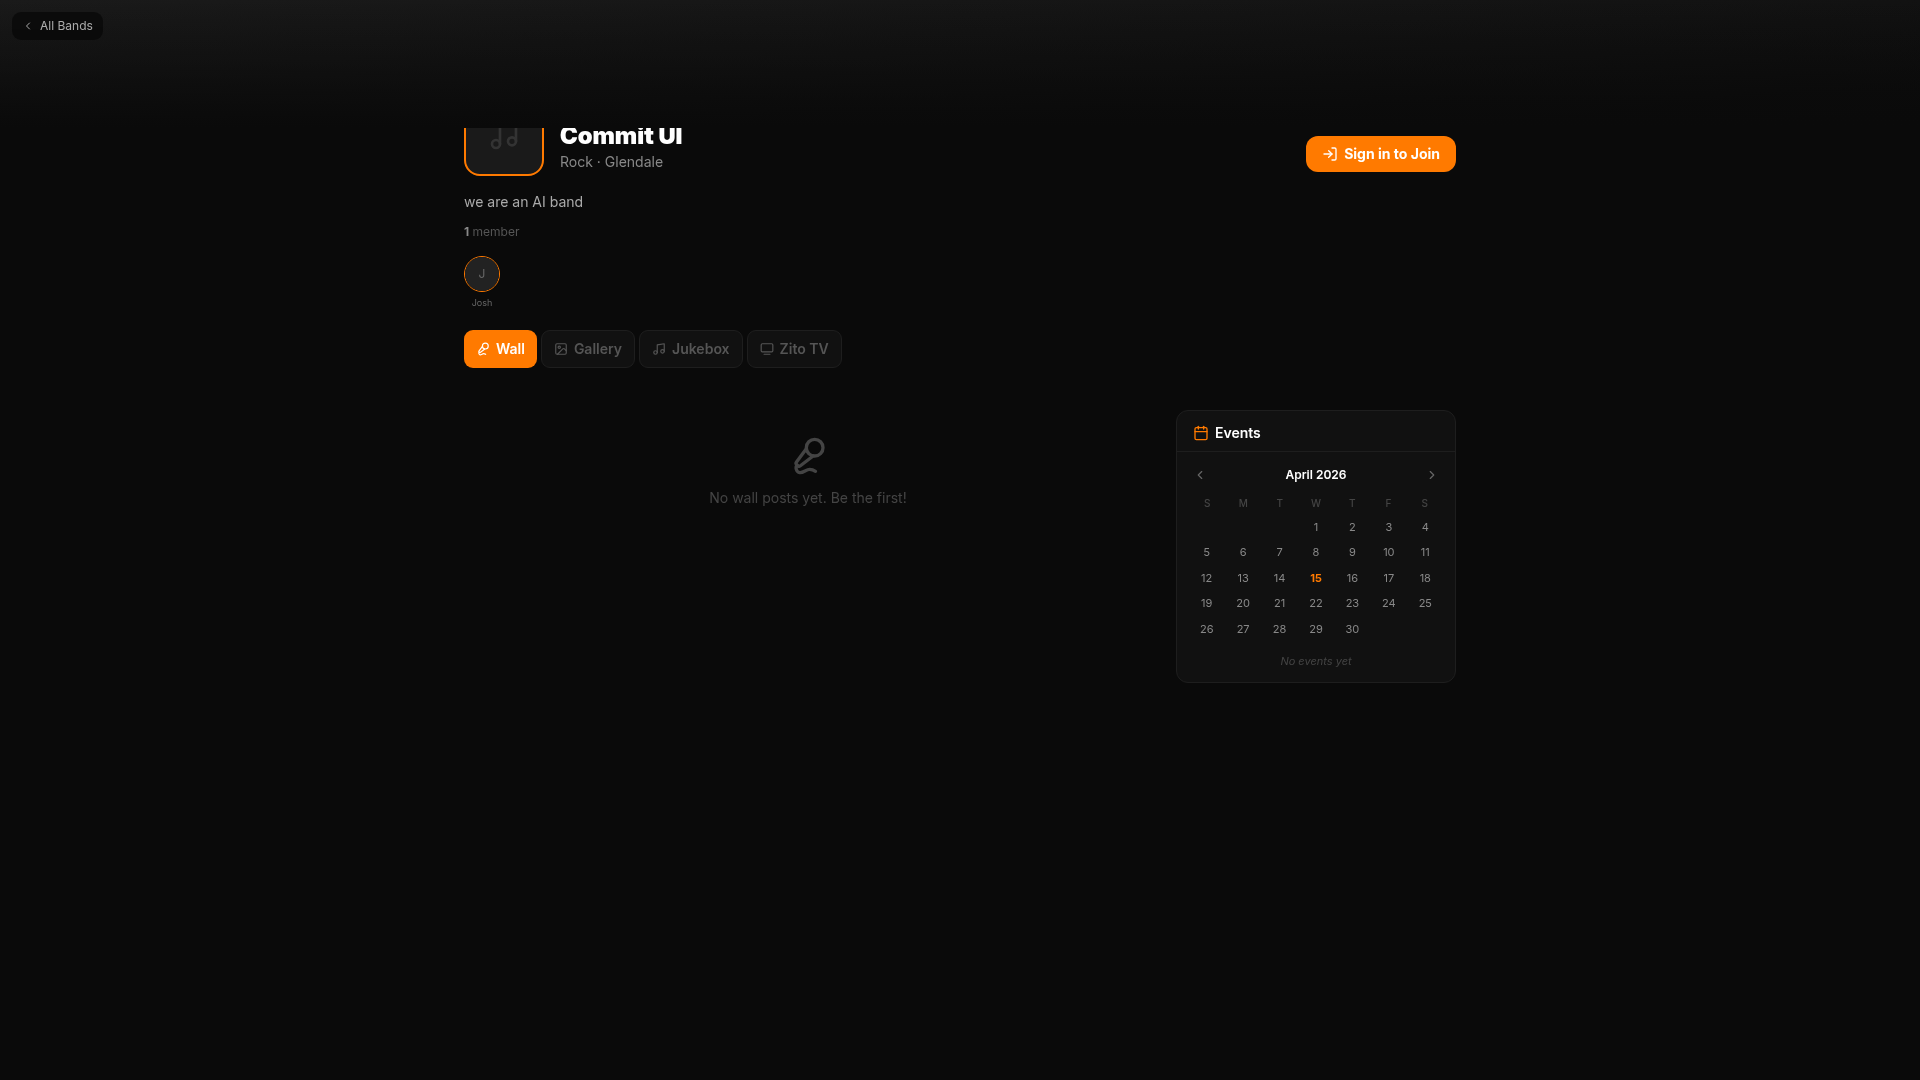
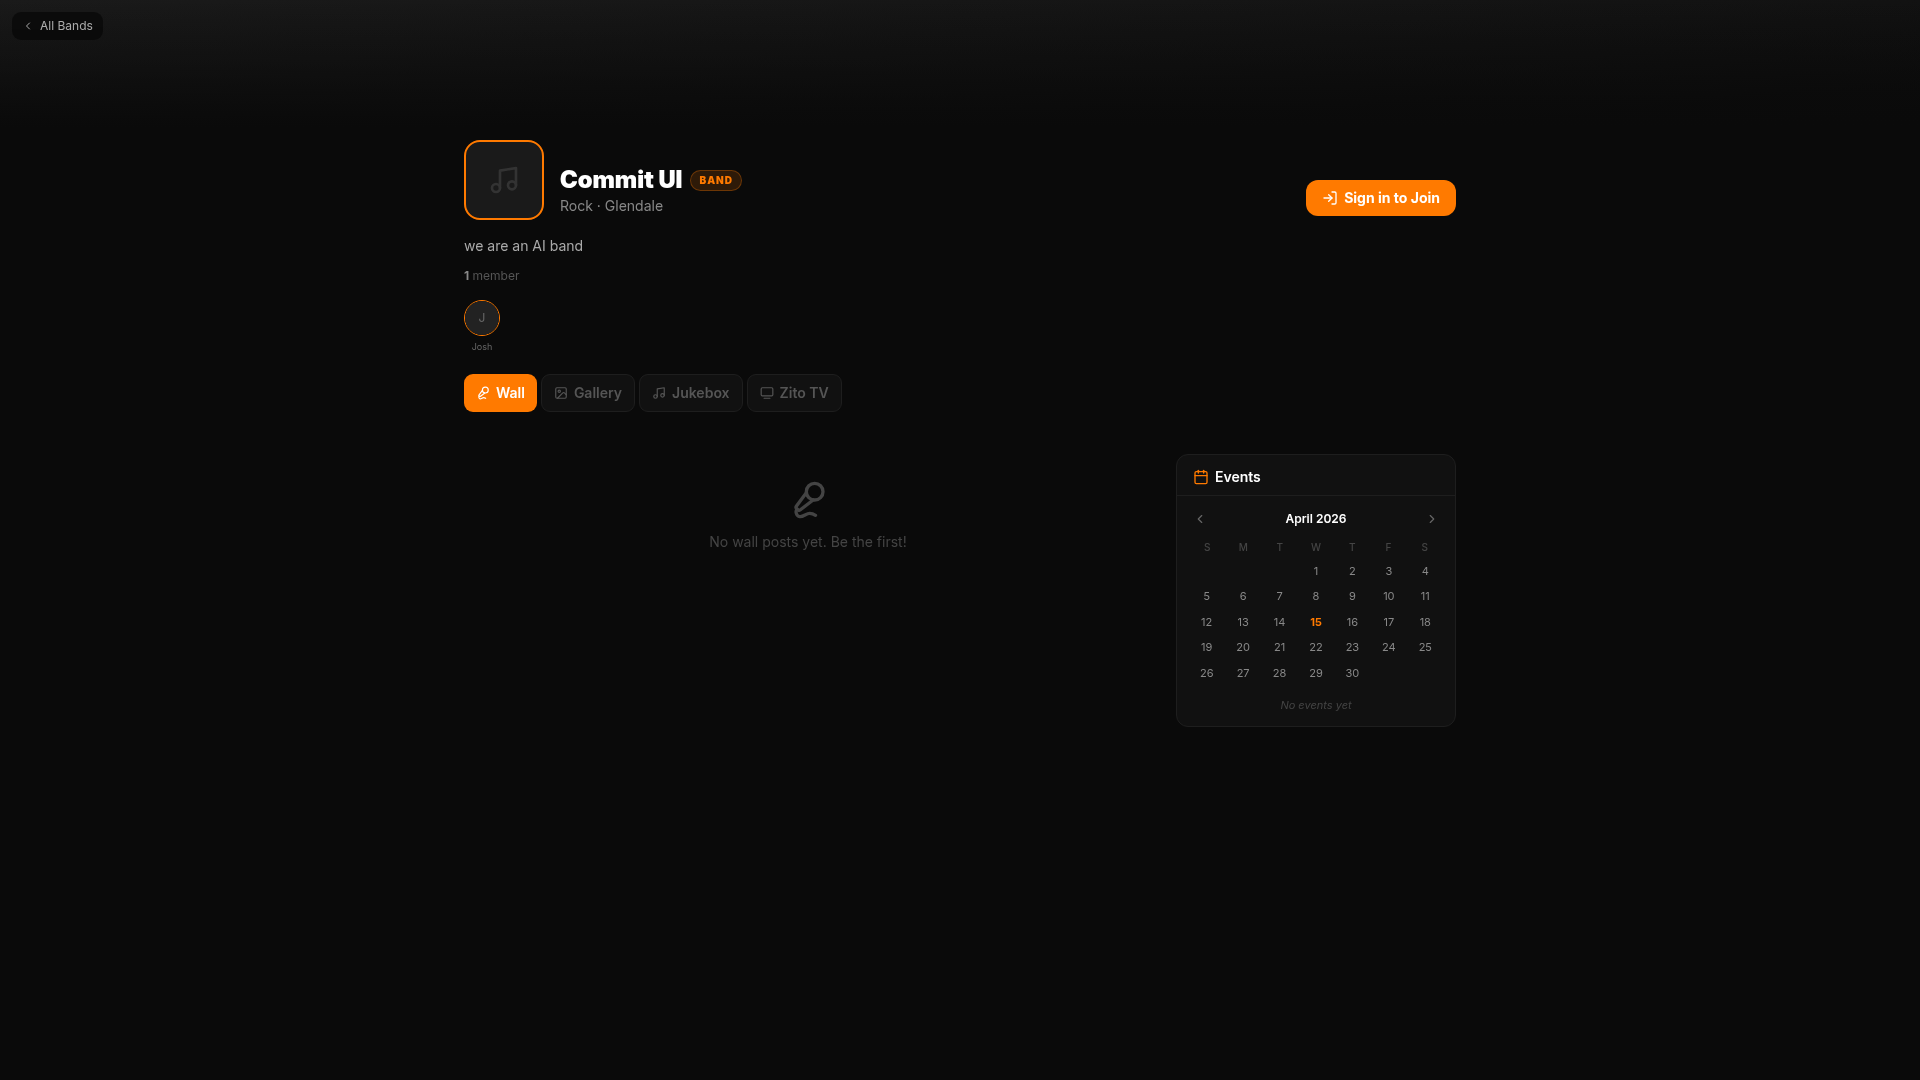
Distinguish between bands and artists and fix display overlap
Add a band or artist type selection to the enrollment form and display a badge on band and artist profiles. Adjust layout to prevent header overlap.

Replit-Commit-Author: Agent
Replit-Commit-Session-Id: 96bca4c1-ad69-4b2a-925e-33f9968eb59d
Replit-Commit-Checkpoint-Type: full_checkpoint
Replit-Commit-Event-Id: f9333cf6-bab2-4fcc-93d9-130623f57306
Replit-Commit-Screenshot-Url: https://storage.googleapis.com/screenshot-production-us-central1/1487f2b9-1e37-4a60-b10e-8a74bd61cf91/96bca4c1-ad69-4b2a-925e-33f9968eb59d/Ar0N1Ho
Replit-Helium-Checkpoint-Created: true

diff --git a/client/src/pages/band-clubhouse.tsx b/client/src/pages/band-clubhouse.tsx
@@ -61,7 +61,7 @@ function timeAgo(d: string | Date) {
 type RosterForm = { name: string; thumbUrl: string; bio: string; role: string };
 const EMPTY_ROSTER: RosterForm = { name: "", thumbUrl: "", bio: "", role: "" };
 
-function RosterSection({ bandId, isAdmin }: { bandId: number; isAdmin: boolean }) {
+function RosterSection({ bandId, isAdmin, bandType }: { bandId: number; isAdmin: boolean; bandType?: string }) {
   const { toast } = useToast();
   const qc = useQueryClient();
   const thumbRef = useRef<HTMLInputElement>(null);
@@ -127,7 +127,7 @@ function RosterSection({ bandId, isAdmin }: { bandId: number; isAdmin: boolean }
   return (
     <div className="mb-5">
       <div className="flex items-center justify-between mb-3">
-        <p className="text-xs font-bold uppercase tracking-widest text-[#555]">Meet the Band</p>
+        <p className="text-xs font-bold uppercase tracking-widest text-[#555]">{bandType === "artist" ? "About the Artist" : "Meet the Band"}</p>
         {isAdmin && roster.length < 8 && (
           <button onClick={openAdd} className="flex items-center gap-1 text-xs font-semibold px-2.5 py-1 rounded-lg text-white" style={{ background: ORANGE }} data-testid="add-roster-btn">
             <UserPlus className="h-3 w-3" /> Add
@@ -1089,7 +1089,7 @@ export default function BandClubbousePage() {
   const [joinInstrument, setJoinInstrument] = useState("");
   const [showJoinModal, setShowJoinModal] = useState(false);
   const [showEditModal, setShowEditModal] = useState(false);
-  const [editForm, setEditForm] = useState({ name: "", bio: "", genre: "", city: "", state: "", avatarUrl: "", bannerUrl: "", instagramUrl: "", tiktokUrl: "", youtubeUrl: "", websiteUrl: "" });
+  const [editForm, setEditForm] = useState({ name: "", bio: "", genre: "", city: "", state: "", avatarUrl: "", bannerUrl: "", instagramUrl: "", tiktokUrl: "", youtubeUrl: "", websiteUrl: "", bandType: "band" });
 
   const { data: band, isLoading } = useQuery<GzBandWithMeta>({
     queryKey: ["/api/bands", bandId],
@@ -1156,6 +1156,7 @@ export default function BandClubbousePage() {
       tiktokUrl: band.tiktokUrl ?? "",
       youtubeUrl: band.youtubeUrl ?? "",
       websiteUrl: band.websiteUrl ?? "",
+      bandType: (band as any).bandType ?? "band",
     });
     setShowEditModal(true);
   }
@@ -1207,7 +1208,7 @@ export default function BandClubbousePage() {
       <div className="max-w-5xl mx-auto px-4">
 
         {/* Band header */}
-        <div className="flex items-end gap-4 -mt-8 mb-4">
+        <div className="flex items-end gap-4 mt-3 mb-4">
           <div className="w-20 h-20 rounded-2xl border-2 overflow-hidden shrink-0" style={{ borderColor: ORANGE, background: "#1a1a1a" }}>
             {band.avatarUrl ? (
               <img src={band.avatarUrl} alt="" className="w-full h-full object-cover" />
@@ -1216,7 +1217,17 @@ export default function BandClubbousePage() {
             )}
           </div>
           <div className="flex-1 pb-1">
-            <h1 className="text-2xl font-black text-white">{band.name}</h1>
+            <div className="flex items-center gap-2 flex-wrap">
+              <h1 className="text-2xl font-black text-white">{band.name}</h1>
+              <span
+                className="text-[10px] font-black tracking-widest px-2 py-0.5 rounded-full uppercase"
+                style={(band as any).bandType === "artist"
+                  ? { background: "rgba(168,85,247,0.15)", color: "#a855f7", border: "1px solid rgba(168,85,247,0.3)" }
+                  : { background: "rgba(255,122,0,0.15)", color: ORANGE, border: `1px solid rgba(255,122,0,0.3)` }}
+              >
+                {(band as any).bandType === "artist" ? "Artist" : "Band"}
+              </span>
+            </div>
             <p className="text-sm text-[#888]">{[band.genre, band.city && band.state ? `${band.city}, ${band.state}` : band.city ?? band.state].filter(Boolean).join(" · ")}</p>
           </div>
           <div className="pb-1 flex gap-2 items-center">
@@ -1270,7 +1281,7 @@ export default function BandClubbousePage() {
         )}
 
         {/* Band Roster */}
-        <RosterSection bandId={bandId} isAdmin={isAdmin} />
+        <RosterSection bandId={bandId} isAdmin={isAdmin} bandType={(band as any).bandType} />
 
         {/* Two-column: main content + calendar sidebar */}
         <div className="flex flex-col lg:grid lg:grid-cols-[1fr_280px] gap-6 pb-20">
@@ -1333,12 +1344,27 @@ export default function BandClubbousePage() {
         <div className="fixed inset-0 z-50 bg-black/80 flex items-end sm:items-center justify-center p-4" onClick={() => setShowEditModal(false)}>
           <div className="w-full max-w-lg rounded-2xl p-6 space-y-4 max-h-[90vh] overflow-y-auto" style={{ background: "#111", border: `1px solid ${BORDER}` }} onClick={e => e.stopPropagation()}>
             <div className="flex items-center justify-between">
-              <p className="text-lg font-black text-white">Edit Band</p>
+              <p className="text-lg font-black text-white">Edit {editForm.bandType === "artist" ? "Artist" : "Band"}</p>
               <button onClick={() => setShowEditModal(false)} className="text-[#555] hover:text-white transition-colors"><X className="h-5 w-5" /></button>
+            </div>
+            {/* Band / Artist type toggle */}
+            <div className="flex gap-2 p-1 rounded-xl" style={{ background: "#0a0a0a", border: "1px solid #1e1e1e" }}>
+              <button type="button" onClick={() => setEditForm(f => ({ ...f, bandType: "band" }))}
+                className="flex-1 flex items-center justify-center gap-2 py-1.5 rounded-lg text-xs font-bold transition-all"
+                style={editForm.bandType === "band" ? { background: ORANGE, color: "#fff" } : { color: "#555" }}
+                data-testid="edit-type-band">
+                Band
+              </button>
+              <button type="button" onClick={() => setEditForm(f => ({ ...f, bandType: "artist" }))}
+                className="flex-1 flex items-center justify-center gap-2 py-1.5 rounded-lg text-xs font-bold transition-all"
+                style={editForm.bandType === "artist" ? { background: "#a855f7", color: "#fff" } : { color: "#555" }}
+                data-testid="edit-type-artist">
+                Artist
+              </button>
             </div>
             <div className="grid grid-cols-2 gap-3">
               <div className="col-span-2">
-                <label className="text-xs text-[#555] uppercase tracking-wide mb-1 block">Band Name *</label>
+                <label className="text-xs text-[#555] uppercase tracking-wide mb-1 block">{editForm.bandType === "artist" ? "Artist / Stage Name *" : "Band Name *"}</label>
                 <input className="w-full bg-[#1a1a1a] rounded-lg px-3 py-2 text-sm text-white outline-none border border-[#222] focus:border-[#444]" value={editForm.name} onChange={e => setEditForm(f => ({ ...f, name: e.target.value }))} data-testid="edit-band-name" />
               </div>
               <div className="col-span-2">

diff --git a/client/src/pages/gz-bands.tsx b/client/src/pages/gz-bands.tsx
@@ -7,7 +7,7 @@ import { apiRequest } from "@/lib/queryClient";
 import { Navbar } from "@/components/navbar";
 import { Skeleton } from "@/components/ui/skeleton";
 import { Badge } from "@/components/ui/badge";
-import { Music, Plus, Users, ChevronLeft, Radio, Mic2, Upload, X } from "lucide-react";
+import { Music, Plus, Users, ChevronLeft, Radio, Mic2, Upload, X, Guitar, User } from "lucide-react";
 import type { GzBandWithMeta } from "@shared/schema";
 
 const ORANGE = "#ff7a00";
@@ -46,7 +46,7 @@ export default function GzBandsPage() {
   const [form, setForm] = useState({
     name: "", bio: "", genre: "", city: "", state: "",
     websiteUrl: "", instagramUrl: "", tiktokUrl: "", youtubeUrl: "",
-    avatarUrl: "", bannerUrl: "",
+    avatarUrl: "", bannerUrl: "", bandType: "band",
   });
 
   const uploadImage = async (file: File, kind: "avatar" | "banner") => {
@@ -73,7 +73,7 @@ export default function GzBandsPage() {
   });
 
   const resetForm = () => {
-    setForm({ name: "", bio: "", genre: "", city: "", state: "", websiteUrl: "", instagramUrl: "", tiktokUrl: "", youtubeUrl: "", avatarUrl: "", bannerUrl: "" });
+    setForm({ name: "", bio: "", genre: "", city: "", state: "", websiteUrl: "", instagramUrl: "", tiktokUrl: "", youtubeUrl: "", avatarUrl: "", bannerUrl: "", bandType: "band" });
     setAvatarPreview("");
     setBannerPreview("");
   };
@@ -84,7 +84,8 @@ export default function GzBandsPage() {
       qc.invalidateQueries({ queryKey: ["/api/bands"] });
       setShowEnroll(false);
       resetForm();
-      toast({ title: "Band enrolled!", description: `${data.name} is now on GZMusic.` });
+      const label = data.bandType === "artist" ? "Artist" : "Band";
+      toast({ title: `${label} enrolled!`, description: `${data.name} is now on GZMusic.` });
       setLocation(`/gz-music/bands/${data.id}`);
     },
     onError: (e: any) => toast({ title: "Error", description: e.message ?? "Could not create band", variant: "destructive" }),
@@ -130,12 +131,45 @@ export default function GzBandsPage() {
         {/* Enroll form */}
         {showEnroll && (
           <div className="rounded-2xl p-5 space-y-4" style={{ background: CARD, border: `1px solid ${BORDER}` }}>
-            <p className="text-base font-black text-white">Enroll Your Band</p>
-            <p className="text-xs text-[#666]">You'll automatically become the band admin. Invite your bandmates from the clubhouse.</p>
+            <p className="text-base font-black text-white">
+              {form.bandType === "artist" ? "Enroll as Artist" : "Enroll Your Band"}
+            </p>
+            <p className="text-xs text-[#666]">
+              {form.bandType === "artist"
+                ? "You'll get a solo artist clubhouse. Add collaborators from your profile."
+                : "You'll automatically become the band admin. Invite your bandmates from the clubhouse."}
+            </p>
+
+            {/* Band / Artist toggle */}
+            <div className="flex gap-2 p-1 rounded-xl" style={{ background: "#0f0f0f", border: `1px solid ${BORDER}` }}>
+              <button
+                type="button"
+                onClick={() => setForm(f => ({ ...f, bandType: "band" }))}
+                className="flex-1 flex items-center justify-center gap-2 py-2 rounded-lg text-sm font-bold transition-all"
+                style={form.bandType === "band"
+                  ? { background: ORANGE, color: "#fff" }
+                  : { color: "#555" }}
+                data-testid="type-band"
+              >
+                <Guitar className="h-4 w-4" /> Band
+              </button>
+              <button
+                type="button"
+                onClick={() => setForm(f => ({ ...f, bandType: "artist" }))}
+                className="flex-1 flex items-center justify-center gap-2 py-2 rounded-lg text-sm font-bold transition-all"
+                style={form.bandType === "artist"
+                  ? { background: ORANGE, color: "#fff" }
+                  : { color: "#555" }}
+                data-testid="type-artist"
+              >
+                <User className="h-4 w-4" /> Artist
+              </button>
+            </div>
+
             <div className="grid grid-cols-2 gap-3">
               <input
                 className="col-span-2 bg-[#1a1a1a] rounded-lg px-3 py-2 text-sm text-white outline-none border border-[#222] focus:border-[#333]"
-                placeholder="Band name *"
+                placeholder={form.bandType === "artist" ? "Artist / stage name *" : "Band name *"}
                 value={form.name}
                 onChange={e => setForm(f => ({ ...f, name: e.target.value }))}
                 data-testid="band-name"
@@ -246,7 +280,7 @@ export default function GzBandsPage() {
                 style={{ background: ORANGE }}
                 data-testid="band-enroll-submit"
               >
-                {createMutation.isPending ? "Enrolling..." : "Enroll Band"}
+                {createMutation.isPending ? "Enrolling..." : form.bandType === "artist" ? "Enroll Artist" : "Enroll Band"}
               </button>
             </div>
           </div>
@@ -335,6 +369,15 @@ function BandCard({ band, onClick }: { band: GzBandWithMeta; onClick: () => void
       <div className="flex-1 min-w-0">
         <div className="flex items-center gap-2">
           <p className="font-black text-white truncate">{band.name}</p>
+          {/* Band / Artist type badge */}
+          <span
+            className="text-[9px] font-black tracking-widest px-1.5 py-0.5 rounded-full uppercase shrink-0"
+            style={(band as any).bandType === "artist"
+              ? { background: "rgba(168,85,247,0.12)", color: "#a855f7", border: "1px solid rgba(168,85,247,0.25)" }
+              : { background: "rgba(255,122,0,0.12)", color: ORANGE, border: "1px solid rgba(255,122,0,0.25)" }}
+          >
+            {(band as any).bandType === "artist" ? "Artist" : "Band"}
+          </span>
           {band.isLive && (
             <div className="flex items-center gap-1 shrink-0">
               <Radio className="h-3 w-3 text-green-400" />

diff --git a/shared/schema.ts b/shared/schema.ts
@@ -1198,6 +1198,7 @@ export const gzBands = pgTable("gz_bands", {
   id: serial("id").primaryKey(),
   name: text("name").notNull(),
   slug: text("slug").notNull().unique(),
+  bandType: text("band_type").notNull().default("band"), // "band" | "artist"
   bio: text("bio").notNull().default(""),
   genre: text("genre").notNull().default(""),
   avatarUrl: text("avatar_url"),
